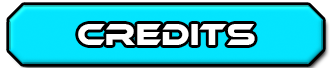
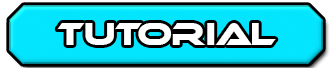
Server

Changed region(s): [[0.1506, 0.2941, 0.8434, 0.7059]]

diff --git a/Project/FYP/FYP/SceneManager.cpp b/Project/FYP/FYP/SceneManager.cpp
@@ -141,6 +141,43 @@ SceneManager::SceneManager()
 		m_CollisionReadyRectangle.setPosition(sf::Vector2f(770, 665));
 
 
+
+		nextRectangle.setPosition(800, 600);
+		nextRectangle.setSize(sf::Vector2f(332, 68));
+		nextRectangle.setTexture(&nextTexture);
+
+		backRectangle.setPosition(200, 600);
+		backRectangle.setSize(sf::Vector2f(332, 68));
+		backRectangle.setTexture(&backTexture);
+
+		tut1Rect.setPosition(0, 0);
+		tut1Rect.setSize(sf::Vector2f(1280, 720));
+		tut1Rect.setTexture(&tut1Text);
+
+		tut2Rect.setPosition(0, 0);
+		tut2Rect.setSize(sf::Vector2f(1280, 720));
+		tut2Rect.setTexture(&tut2Text);
+
+		tut3Rect.setPosition(0, 0);
+		tut3Rect.setSize(sf::Vector2f(1280, 720));
+		tut3Rect.setTexture(&tut3Text);
+
+		tut4Rect.setPosition(0, 0);
+		tut4Rect.setSize(sf::Vector2f(1280, 720));
+		tut4Rect.setTexture(&tut4Text);
+
+		tut5Rect.setPosition(0, 0);
+		tut5Rect.setSize(sf::Vector2f(1280, 720));
+		tut5Rect.setTexture(&tut5Text);
+
+		tut6Rect.setPosition(0, 0);
+		tut6Rect.setSize(sf::Vector2f(1280, 720));
+		tut6Rect.setTexture(&tut6Text);
+
+		tut7Rect.setPosition(0, 0);
+		tut7Rect.setSize(sf::Vector2f(1280, 720));
+		tut7Rect.setTexture(&tut7Text);
+
 		cout << "SceneManager Constructor Finished" << endl;
 	}
 }
@@ -173,7 +210,19 @@ void SceneManager::ChangeBackground(sf::Event Event, sf::Time time)
 			//Check Mouse rectangle with the credits button
 			else if (m_mouseRect.getGlobalBounds().intersects(m_CreditsButtonRect.getGlobalBounds()) && Event.type == Event.MouseButtonReleased && Event.mouseButton.button == sf::Mouse::Left)
 			{
-				m_currentScene = CREDITS;
+
+				if (tutorialPage == 1 && wasInTut == false)
+				{
+					wasInTut = true;
+					m_currentScene = TUTORIAL;
+				}
+
+				if (tutorialPage > 1 || tutorialPage <= 0)
+				{
+					tutorialPage = 1;
+					wasInTut = false;
+					break;
+				}
 			}
 
 			//Check Mouse rectangle with the quit button
@@ -198,6 +247,26 @@ void SceneManager::ChangeBackground(sf::Event Event, sf::Time time)
 		case PLAY_GAME:
 		{
 
+		}
+		break;
+
+		case TUTORIAL:
+		{
+			/*if (m_mouseRect.getGlobalBounds().intersects(nextRectangle.getGlobalBounds()) && Event.type == Event.MouseButtonReleased && Event.mouseButton.button == sf::Mouse::Left)
+			{
+				tutorialPage++;
+				if (tutorialPage >= 8)
+					m_currentScene = MENU;
+				break;
+			}
+
+			else if (m_mouseRect.getGlobalBounds().intersects(backRectangle.getGlobalBounds()) && Event.type == Event.MouseButtonReleased && Event.mouseButton.button == sf::Mouse::Left)
+			{
+				tutorialPage--;
+				if (tutorialPage <= 0)
+					m_currentScene = MENU;
+				break;
+			}*/
 		}
 		break;
 
@@ -303,6 +372,73 @@ bool SceneManager::LoadTexture()
 		std::cout << "Couldn't load quit Select png" << std::endl;
 		return false;
 	}
+
+	if (!nextTexture.loadFromFile("Assets/Buttons/next.png"))
+	{
+		std::cout << "Couldn't load next png" << std::endl;
+		return false;
+	}
+
+	if (!selectNextTexture.loadFromFile("Assets/Buttons/selectNext.png"))
+	{
+		std::cout << "Couldn't load selectnext png" << std::endl;
+		return false;
+	}
+
+	if (!backTexture.loadFromFile("Assets/Buttons/back.png"))
+	{
+		std::cout << "Couldn't load back png" << std::endl;
+		return false;
+	}
+
+	if (!selectBackTexture.loadFromFile("Assets/Buttons/selectBack.png"))
+	{
+		std::cout << "Couldn't load back png" << std::endl;
+		return false;
+	}
+
+	if (!tut1Text.loadFromFile("Assets/Tutorial/1.png"))
+	{
+		std::cout << "Couldn't load Tutorial png" << std::endl;
+		return false;
+	}
+
+	if (!tut2Text.loadFromFile("Assets/Tutorial/2.png"))
+	{
+		std::cout << "Couldn't load Tutorial png" << std::endl;
+		return false;
+	}
+
+	if (!tut3Text.loadFromFile("Assets/Tutorial/3.png"))
+	{
+		std::cout << "Couldn't load Tutorial png" << std::endl;
+		return false;
+	}
+
+	if (!tut4Text.loadFromFile("Assets/Tutorial/4.png"))
+	{
+		std::cout << "Couldn't load Tutorial png" << std::endl;
+		return false;
+	}
+
+	if (!tut5Text.loadFromFile("Assets/Tutorial/5.png"))
+	{
+		std::cout << "Couldn't load Tutorial png" << std::endl;
+		return false;
+	}
+
+	if (!tut6Text.loadFromFile("Assets/Tutorial/6.png"))
+	{
+		std::cout << "Couldn't load Tutorial png" << std::endl;
+		return false;
+	}
+
+	if (!tut7Text.loadFromFile("Assets/Tutorial/7.png"))
+	{
+		std::cout << "Couldn't load Tutorial png" << std::endl;
+		return false;
+	}
+
 
 
 	/*if (!m_chatLobbyTexture.loadFromFile("Assets/Pregame/chatLobby.png"))
@@ -456,6 +592,48 @@ void SceneManager::Draw(sf::RenderWindow &window)
 
 	case PLAY_GAME:
 	{
+	}
+	break;
+
+	case TUTORIAL:
+	{
+			window.draw(nextRectangle);
+			window.draw(backRectangle);
+
+			if (tutorialPage == 1)
+			{
+				window.draw(tut1Rect);
+			}
+
+			if (tutorialPage == 2)
+			{
+				window.draw(tut2Rect);
+			}
+
+			if (tutorialPage == 3)
+			{
+				window.draw(tut3Rect);
+			}
+
+			if (tutorialPage == 4)
+			{
+				window.draw(tut4Rect);
+			}
+
+			if (tutorialPage == 5)
+			{
+				window.draw(tut5Rect);
+			}
+
+			if (tutorialPage == 6)
+			{
+				window.draw(tut6Rect);
+			}
+
+			if (tutorialPage == 7)
+			{
+				window.draw(tut7Rect);
+			}
 	}
 	break;
 

diff --git a/Project/FYP/FYP/Game.cpp b/Project/FYP/FYP/Game.cpp
@@ -4546,6 +4546,110 @@ int main()
 			window.display();
 		}
 		break;
+
+
+		case sceneManager.TUTORIAL:
+		{
+			frameTime = frameClock.restart();
+			sf::Event Event;
+			while (window.pollEvent(Event))
+			{
+				// Close window : exit 
+				if (Event.type == sf::Event::Closed)
+					window.close();
+
+				// Escape key : exit 
+				if ((Event.type == sf::Event::KeyPressed) && (Event.key.code == sf::Keyboard::Escape))
+					window.close();
+
+				if (Event.type == Event.MouseButtonReleased && Event.mouseButton.button == sf::Mouse::Left)
+				{
+					sf::Vector2i mousepos = sf::Mouse::getPosition(window);
+					sf::Vector2f converted = window.mapPixelToCoords(mousepos);
+					sf::RectangleShape mouseRect;
+					mouseRect.setSize(sf::Vector2f(1, 1));
+					mouseRect.setPosition(converted);
+
+					if (collisionManager.CheckRectangleCollision(sceneManager.backRectangle, mouseRect))
+					{
+						sceneManager.tutorialPage--;
+						std::cout << "CLICKED ON THE back button" << std::endl;
+						
+					}
+
+					if (collisionManager.CheckRectangleCollision(sceneManager.nextRectangle, mouseRect))
+					{
+						sceneManager.tutorialPage++;
+						cout << "Count = " << sceneManager.tutorialPage << endl;
+						std::cout << "CLICKED ON THE next button" << std::endl;
+						break;
+					}
+					
+				}
+
+			}
+
+
+
+			if (sceneManager.tutorialPage >= 8)
+				sceneManager.m_currentScene = sceneManager.MENU;
+
+			if (sceneManager.tutorialPage <= 0)
+				sceneManager.m_currentScene = sceneManager.MENU;
+
+			sf::Vector2i mousepos = sf::Mouse::getPosition(window);
+			sf::Vector2f converted = window.mapPixelToCoords(mousepos);
+			sf::RectangleShape mouseRect;
+			mouseRect.setSize(sf::Vector2f(1, 1));
+			mouseRect.setPosition(converted);
+
+
+
+			//Check Collision with the NEXT RECTANGLE
+			if (collisionManager.CheckRectangleCollision(sceneManager.nextRectangle, mouseRect))
+			{
+				if (sceneManager.nextRectangle.getTexture() != &sceneManager.selectNextTexture)
+				{
+					sceneManager.nextRectangle.setTexture(&sceneManager.selectNextTexture);
+				}
+			}
+
+			else
+			{
+				if (sceneManager.nextRectangle.getTexture() != &sceneManager.nextTexture)
+				{
+					sceneManager.nextRectangle.setTexture(&sceneManager.nextTexture);
+				}
+			}
+
+			if (collisionManager.CheckRectangleCollision(sceneManager.backRectangle, mouseRect))
+			{
+				if (sceneManager.backRectangle.getTexture() != &sceneManager.selectBackTexture)
+				{
+					sceneManager.backRectangle.setTexture(&sceneManager.selectBackTexture);
+				}
+			}
+
+			else
+			{
+				if (sceneManager.backRectangle.getTexture() != &sceneManager.backTexture)
+				{
+					sceneManager.backRectangle.setTexture(&sceneManager.backTexture);
+				}
+			}
+
+			//prepare frame
+			window.clear();
+
+
+			sceneManager.ChangeBackground(Event, frameTime);
+			sceneManager.Draw(window);
+
+			// Finally, display rendered frame on screen 
+			window.display();
+		}
+		break;
+
 	} //loop back for next frame
 	}
 	return EXIT_SUCCESS;

diff --git a/Project/FYP/FYP/SceneManager.h b/Project/FYP/FYP/SceneManager.h
@@ -13,7 +13,7 @@ public:
 	SceneManager();
 	byte GetCurrentScene();
 	bool LoadTexture();
-	enum GAMESTATE : byte{ MENU, PLAY_GAME, GAME_OVER, OPTIONS, CREDITS, PLAYEROPTIONS, LOBBY };
+	enum GAMESTATE : byte{ MENU, PLAY_GAME, GAME_OVER, OPTIONS, TUTORIAL, PLAYEROPTIONS, LOBBY };
 	byte m_currentScene;
 	void Draw(sf::RenderWindow& window);
 	void ChangeBackground(sf::Event Event, sf::Time time);
@@ -40,6 +40,18 @@ public:
 	int currentSfx;
 	int currentMaster;
 
+
+	void GoBack() { tutorialPage--; }
+	void GoForward() { tutorialPage++; }
+	sf::RectangleShape nextRectangle;
+	sf::RectangleShape backRectangle;
+	sf::Texture nextTexture, backTexture, selectNextTexture, selectBackTexture;
+
+	sf::Texture tut1Text, tut2Text, tut3Text, tut4Text, tut5Text, tut6Text, tut7Text;
+	sf::RectangleShape tut1Rect, tut2Rect, tut3Rect, tut4Rect, tut5Rect, tut6Rect, tut7Rect;
+	int tutorialPage = 1;
+
+	bool wasInTut = false;
 
 private:
 	sf::Texture m_mainMenuTexture;

diff --git a/Project/FYP/FYP/HUD.cpp b/Project/FYP/FYP/HUD.cpp
@@ -42,6 +42,10 @@ HUD::HUD()
 		m_gameOverRect.setPosition(sf::Vector2f(400, 50));
 		m_gameOverRect.setTexture(&m_gameOverTexture);
 
+		gameOverTextRectangle.setSize(sf::Vector2f(500, 100));
+		gameOverTextRectangle.setPosition(sf::Vector2f(500, 600));
+		gameOverTextRectangle.setTexture(&gameOverTextTexture);
+
 	}
 }
 
@@ -102,6 +106,9 @@ bool HUD::LoadTexture()
 		return false;
 
 	if (!m_gameOverTexture.loadFromFile("Assets/HUD/gameover.png"))
+		return false;
+
+	if (!gameOverTextTexture.loadFromFile("Assets/Buttons/esc.png"))
 		return false;
 
 	if (!font.loadFromFile("Assets/Font/font.ttf")) {
@@ -303,6 +310,7 @@ void HUD::Draw(sf::RenderWindow &window)
 	else
 	{
 		window.draw(m_gameOverRect);
+		window.draw(gameOverTextRectangle);
 	}
 
 	if (showScore)

diff --git a/Project/FYP/FYP/HUD.h b/Project/FYP/FYP/HUD.h
@@ -19,6 +19,9 @@ public:
 	int FindHighlight(int number);
 	bool gameOver = false;
 
+
+	sf::Texture gameOverTextTexture;
+	sf::RectangleShape gameOverTextRectangle;
 private:
 	sf::Texture m_hud1Texture;
 	sf::Texture m_hud2Texture;
